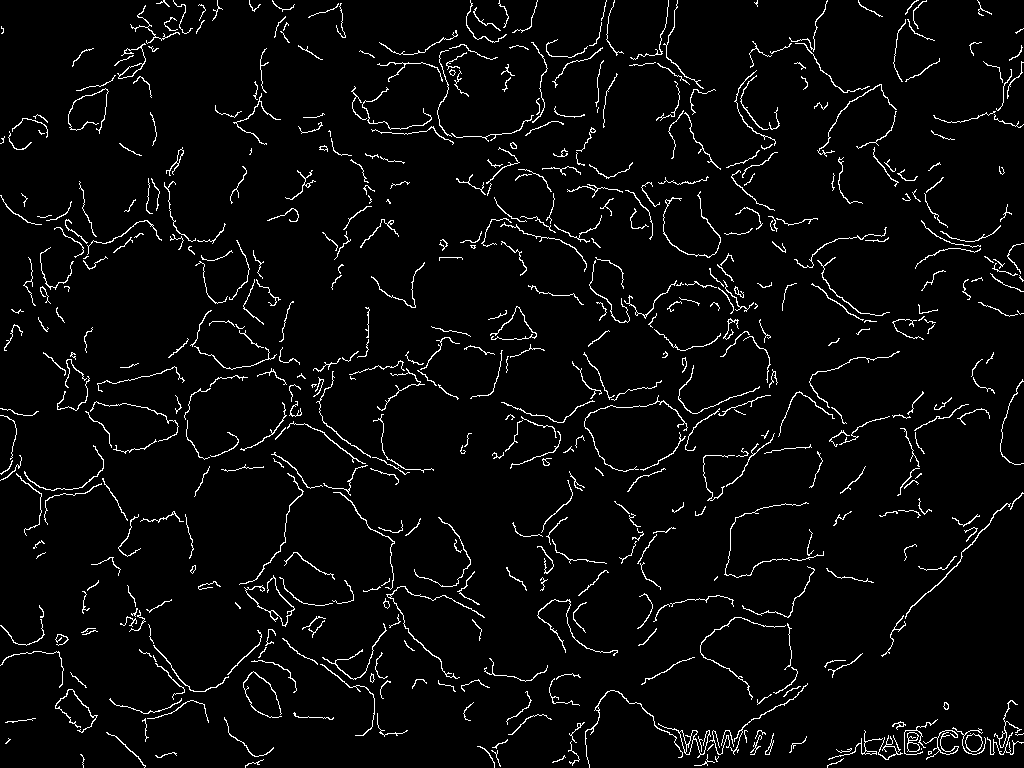
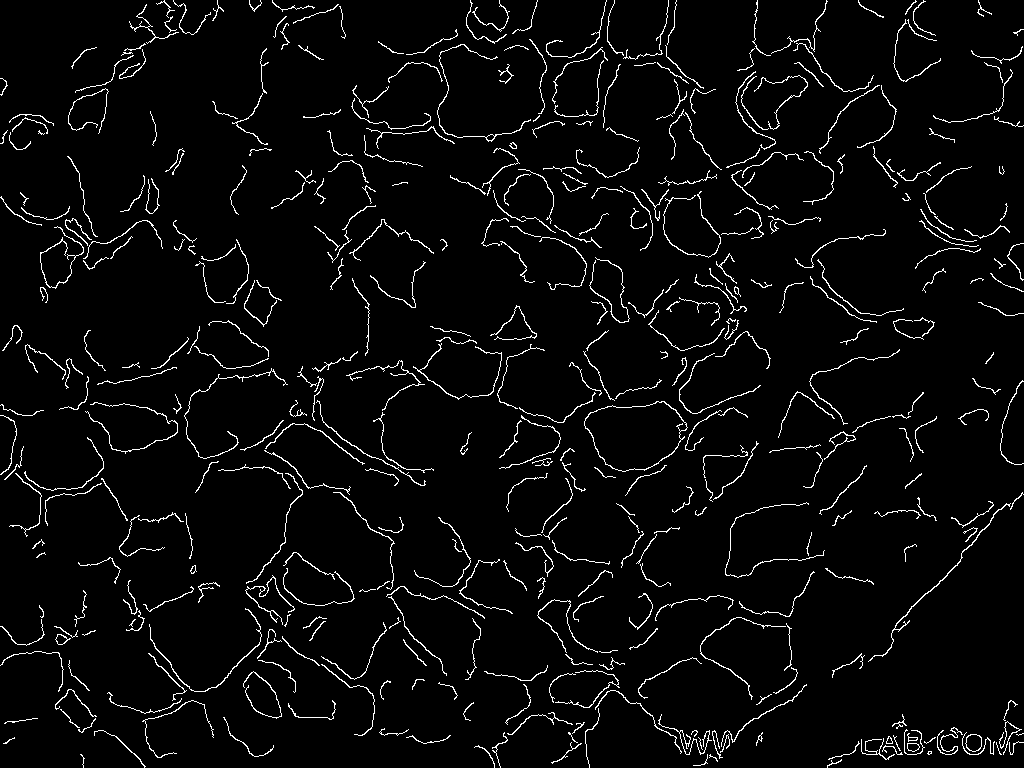
Alpha

diff --git a/src/imageProcessing/ImageProcessing.java b/src/imageProcessing/ImageProcessing.java
@@ -1,11 +1,14 @@
 package imageProcessing;
 
 import graphs.Point;
+import main.Main;
 import org.opencv.core.Core;
 import org.opencv.core.KeyPoint;
 import org.opencv.core.Mat;
 import org.opencv.core.MatOfKeyPoint;
-import org.opencv.features2d.*;
+import org.opencv.features2d.AgastFeatureDetector;
+import org.opencv.features2d.Feature2D;
+import org.opencv.features2d.Features2d;
 import org.opencv.imgcodecs.Imgcodecs;
 import org.opencv.imgproc.Imgproc;
 
@@ -14,10 +17,6 @@ import java.util.Collections;
 import java.util.List;
 
 public class ImageProcessing {
-    private final static int MAX_LINEPOINTS = 30000;
-    private final static int MAX_KEYPOINTS = 0;
-    private final static double POINT_SPACING = 10;
-
     public static void main(String[] args) {
         generateKeypointsList();
     }
@@ -34,28 +33,15 @@ public class ImageProcessing {
         Mat grayImage = new Mat();
         Imgproc.cvtColor(input, grayImage, Imgproc.COLOR_BGR2GRAY);
 
+        //Apply Gaussian blur
+        Imgproc.GaussianBlur(grayImage, grayImage, new org.opencv.core.Size(5, 5), 0);
+
         // Apply Canny edge detection
         Mat edges = new Mat();
-        Imgproc.Canny(grayImage, edges, 180, 400);
+        Imgproc.Canny(grayImage, edges, Main.CANNY_THRESHOLD1, Main.CANNY_THRESHOLD2);
 
         // Save the marked edges image
         Imgcodecs.imwrite("img/edges.png", edges);
-
-        // ------------------------ LINEPOINTS DETECTION ------------------------
-
-        // Create a linepoints detector
-        LinepointsDetector linepointsDetector = new LinepointsDetector(8);
-
-        // Detect linepoints in the image
-        MatOfKeyPoint linepoints = new MatOfKeyPoint();
-        linepoints.fromList(linepointsDetector.detect(edges));
-
-        // Draw linepoints on the image
-        Mat outputImage = new Mat();
-        Features2d.drawKeypoints(edges, linepoints, outputImage);
-
-        // Save the marked linepoints image
-        Imgcodecs.imwrite("img/linepoints.png", outputImage);
 
         // ------------------------ KEYPOINTS DETECTION ------------------------
 
@@ -67,7 +53,7 @@ public class ImageProcessing {
         detector.detect(edges, keypoints);
 
         // Draw keypoints on the image
-        outputImage = new Mat();
+        Mat outputImage = new Mat();
         Features2d.drawKeypoints(edges, keypoints, outputImage);
 
         // Save the marked keypoints image
@@ -77,22 +63,13 @@ public class ImageProcessing {
 
         List<Point> vertices = new ArrayList<>();
         List<KeyPoint> keyPointsList = keypoints.toList();
-        List<KeyPoint> linepointsList = linepoints.toList();
         int keyPointsAdded = 0;
-        int linePointsAdded = 0;
 
         Collections.shuffle(keyPointsList);
         for (KeyPoint keyPoint : keyPointsList) {
-            if (keyPointsAdded >= MAX_KEYPOINTS) break;
+            if (keyPointsAdded >= Main.MAX_KEYPOINTS) break;
             vertices.add(new Point((int) keyPoint.pt.x, (int) keyPoint.pt.y));
             keyPointsAdded++;
-        }
-
-        Collections.shuffle(linepointsList);
-        for (KeyPoint linePoint : linepointsList) {
-            if (linePointsAdded >= MAX_LINEPOINTS) break;
-            vertices.add(new Point((int) linePoint.pt.x, (int) linePoint.pt.y));
-            linePointsAdded++;
         }
 
         // Remove points that are too close to each other
@@ -101,7 +78,7 @@ public class ImageProcessing {
             Point point = vertices.get(i);
             for (int j = i + 1; j < vertices.size(); j++) {
                 Point otherPoint = vertices.get(j);
-                if (point.distanceTo(otherPoint) < POINT_SPACING) {
+                if (point.distanceTo(otherPoint) < Main.POINT_SPACING) {
                     vertices.remove(j);
                     j--;
                 }

diff --git a/src/view/GUI.java b/src/view/GUI.java
@@ -3,6 +3,7 @@ package view;
 import graphs.Point;
 import graphs.TissueGraph;
 import imageProcessing.ImageProcessing;
+import main.Main;
 import org.jgrapht.Graph;
 import org.jgrapht.graph.DefaultEdge;
 
@@ -12,28 +13,32 @@ import java.awt.*;
 import java.awt.image.BufferedImage;
 import java.io.File;
 import java.io.IOException;
+import java.util.ArrayList;
 import java.util.List;
 import java.util.Set;
 
 public class GUI extends JFrame {
     public final static int BUTTON_PANEL_HEIGHT = 50;
-
     public static int WIDTH = 600;
     public static int HEIGHT = 700;
+
     private Graph<Point, DefaultEdge> graph;
     private List<Point> vertices;
+    private List<List<Point>> cycles;
+    private List<Polygon> polygons;
+    private int cycleIndex = 0;
 
     private BufferedImage backgroundImage;
 
     public GUI() {
         generateGraph();
+        convertCyclesToPolygons();
 
         loadBackgroundImage();
         WIDTH = backgroundImage.getWidth();
         HEIGHT = backgroundImage.getHeight();
 
         setSize(new Dimension(WIDTH, HEIGHT + BUTTON_PANEL_HEIGHT));
-//        setResizable(false);
 
         setTitle("Cell Segmentation");
         setDefaultCloseOperation(JFrame.EXIT_ON_CLOSE);
@@ -47,6 +52,7 @@ public class GUI extends JFrame {
                 super.paintComponent(g);
                 g.drawImage(backgroundImage, 0, 0, null);
                 drawPlaneGraph(g);
+                drawCycle(g);
             }
         };
         graphPanel.setPreferredSize(new Dimension(WIDTH, HEIGHT));
@@ -72,6 +78,13 @@ public class GUI extends JFrame {
         cycleButton.addActionListener(e -> showCycles());
         buttonPanel.add(cycleButton);
 
+        JButton nextCycleButton = new JButton("Show next cycle");
+        nextCycleButton.addActionListener(e -> {
+            cycleIndex++;
+            repaint();
+        });
+        buttonPanel.add(nextCycleButton);
+
         add(buttonPanel, BorderLayout.SOUTH);
 
         pack();
@@ -87,7 +100,6 @@ public class GUI extends JFrame {
 
         // Tworzenie modelu listy
         DefaultListModel<String> model = new DefaultListModel<>();
-        List<List<Point>> cycles = TissueGraph.getCyclesPaton(graph);
         model.addElement("Found " + cycles.size() + " cycles");
         for (List<Point> list : cycles) {
             StringBuilder builder = new StringBuilder();
@@ -141,6 +153,13 @@ public class GUI extends JFrame {
         }
     }
 
+    private void drawCycle(Graphics g) {
+        g.setColor(new Color(66, 117, 245, 150));
+        Polygon polygon = polygons.get(cycleIndex % polygons.size());
+        g.drawPolygon(polygon);
+        g.fillPolygon(polygon);
+    }
+
     private void loadBackgroundImage() {
         try {
             File imageFile = new File("img/input.png");
@@ -160,8 +179,26 @@ public class GUI extends JFrame {
     }
 
     private void generateGraph() {
-        vertices = ImageProcessing.generateKeypointsList();
+        this.vertices = ImageProcessing.generateKeypointsList();
+        this.graph = TissueGraph.generateRNGraph(vertices);
+        this.cycles = TissueGraph.getCyclesPaton(graph);
+
         System.out.println(vertices.size());
-        graph = TissueGraph.generateRNGraph(vertices);
+    }
+
+    private void convertCyclesToPolygons() {
+        List<Polygon> polygons = new ArrayList<>();
+
+        for (List<Point> cycle : cycles) {
+            if (cycle.size() >= Main.MIN_CYCLE_LENGTH && cycle.size() <= Main.MAX_CYCLE_LENGTH) {
+                Polygon polygon = new Polygon();
+                for (Point point : cycle) {
+                    polygon.addPoint(point.x(), point.y());
+                }
+                polygons.add(polygon);
+            }
+        }
+
+        this.polygons = polygons;
     }
 }

diff --git a/src/graphs/TissueGraph.java b/src/graphs/TissueGraph.java
@@ -8,6 +8,7 @@ import org.jgrapht.graph.SimpleGraph;
 
 import java.util.*;
 
+@SuppressWarnings("unused")
 public class TissueGraph {
     public static Graph<Point, DefaultEdge> generateRNGraph(List<Point> list) {
         Graph<Point, DefaultEdge> graph = new SimpleGraph<>(DefaultEdge.class);
@@ -73,6 +74,7 @@ public class TissueGraph {
         return graph;
     }
 
+    @Deprecated
     public static List<List<Point>> getCyclesDFS(Graph<Point, DefaultEdge> graph) {
         List<List<Point>> allCycles = new ArrayList<>();
         Set<Point> vertices = graph.vertexSet();
@@ -109,7 +111,6 @@ public class TissueGraph {
     public static List<List<Point>> getCyclesPaton(Graph<Point, DefaultEdge> graph) {
         Set<List<Point>> allCycles = new HashSet<>();
         PatonCycleBase<Point, DefaultEdge> cycleBase = new PatonCycleBase<>(graph);
-        System.out.println(cycleBase.getCycleBasis().getCycles().size());
 
         cycleBase.getCycleBasis().getCycles().forEach(cycle -> {
             List<Point> currentCycle = new ArrayList<>();
@@ -123,7 +124,7 @@ public class TissueGraph {
         });
 
         List<List<Point>> cycleList = new ArrayList<>(allCycles.stream().toList());
-        cycleList.sort(Comparator.comparing(List::size));
+        cycleList.sort((o1, o2) -> o2.size() - o1.size());
 
         return cycleList;
     }

diff --git a/src/main/Main.java b/src/main/Main.java
@@ -1,0 +1,23 @@
+package main;
+
+import view.GUI;
+
+import javax.swing.*;
+
+public class Main {
+
+    // PARAMETERS
+    public static final int MAX_KEYPOINTS = 20000;
+    public static final int CANNY_THRESHOLD1 = 130;
+    public static final int CANNY_THRESHOLD2 = 320;
+    public static final double POINT_SPACING = 11;
+    public static final int MIN_CYCLE_LENGTH = 7;
+    public static final int MAX_CYCLE_LENGTH = 30;
+
+    public static void main(String[] args) {
+        SwingUtilities.invokeLater(GUI::new);
+    }
+}
+
+// TODO: 05/07/2023 add low and high quality edges and points
+// AgastFeatureDetector, BRISK, FastFeature,

diff --git a/src/imageProcessing/LinepointsDetector.java b/src/imageProcessing/LinepointsDetector.java
@@ -6,7 +6,7 @@ import org.opencv.core.Mat;
 import java.util.ArrayList;
 import java.util.List;
 
-@SuppressWarnings("unused")
+@Deprecated
 public class LinepointsDetector {
     private int threshold;
 
